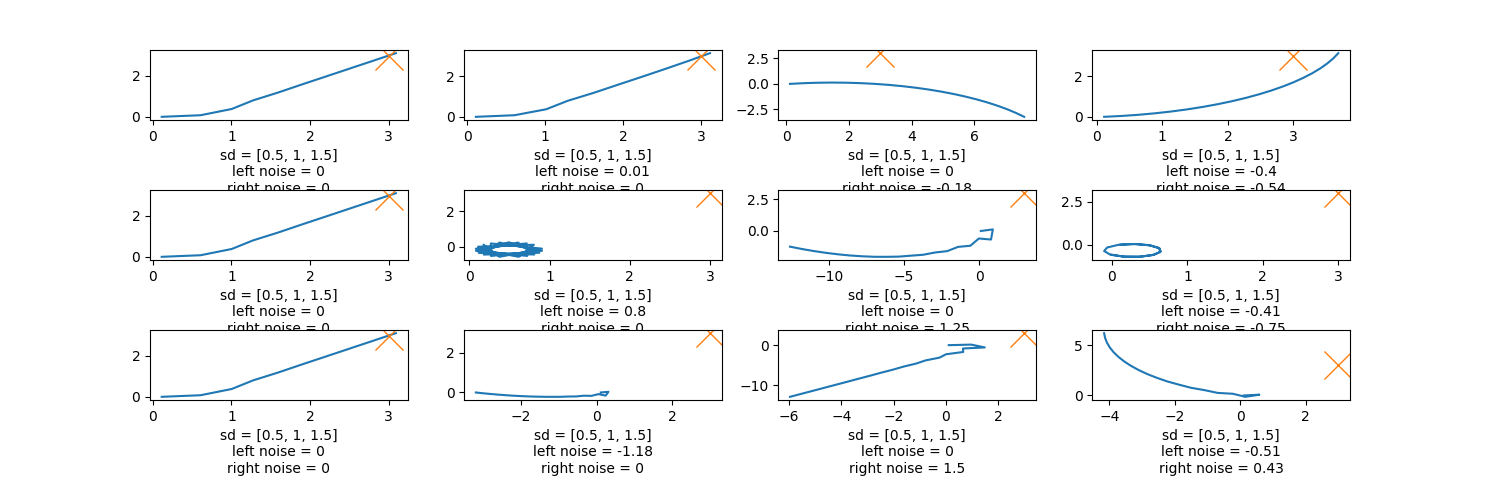
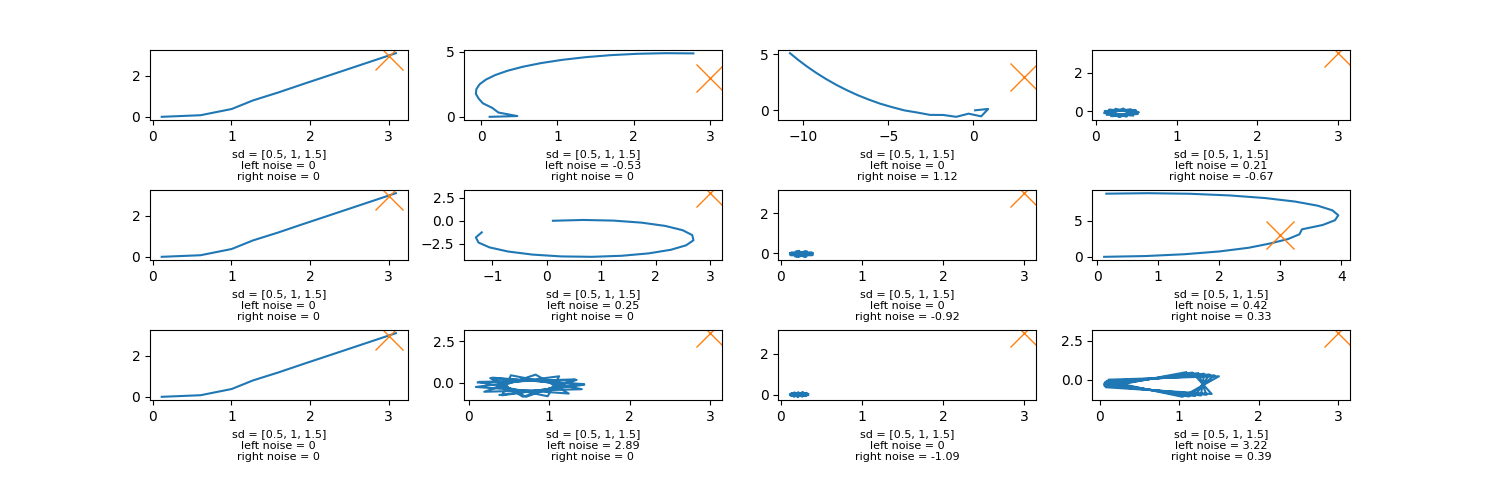
fix graph formatting

diff --git a/Exercises/MotionControl/motioncontrolV2.py b/Exercises/MotionControl/motioncontrolV2.py
@@ -128,7 +128,7 @@ def main():
             plot_graph(position, axs[4 * j + i])
             axs[4 * j + i].set_xlabel("sd = " + str(SD) + "\n"
                                       + "left noise = " + str(args[i][0]) + "\n"
-                                      + "right noise = " + str(args[i][1]) + "\n")
+                                      + "right noise = " + str(args[i][1]) + "\n", fontsize = 8)
 
             pose.reset()
 
